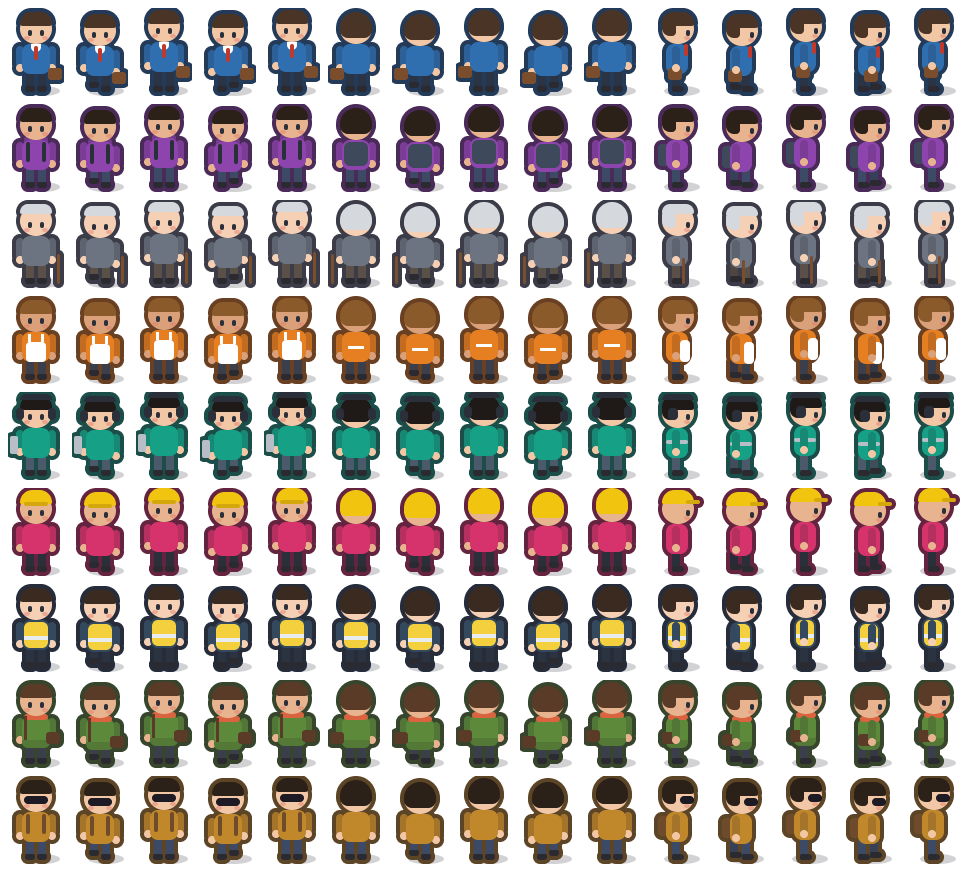
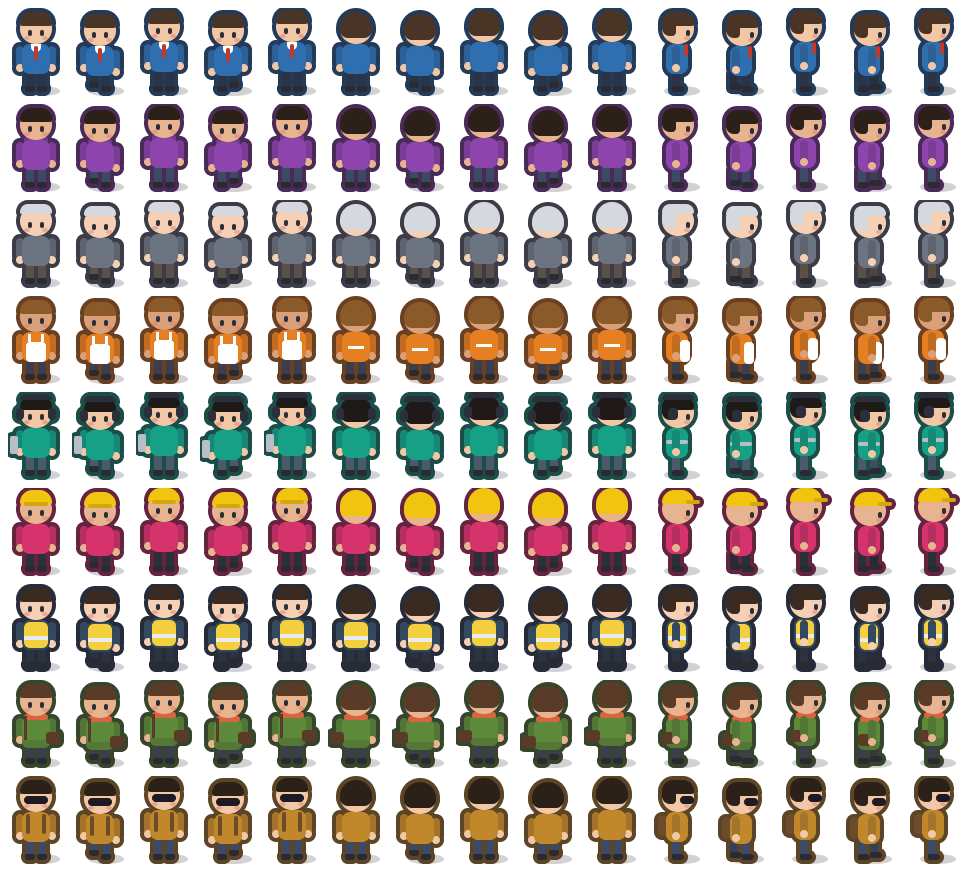
Аксессуары жителей: портфель, рюкзак, трость, стаканчик кофе после покупки, пакет из «Продуктов»
- Аксессуары нарисованы отдельно и накладываются поверх жителя, покачиваются в такт шагу
- Из базовых кадров убраны встроенные портфели, рюкзаки студентов и трости — без дублей
- Стаканчик — 30 игровых минут после покупки кофе у игрока, пакет — 40 минут после «Продуктов»
- Атласы people и extra пересобраны

Claude-Session: https://claude.ai/code/session_01DHEiVcyPj9Qv6m6TjqeSZK

diff --git a/src/game/StreetScene.ts b/src/game/StreetScene.ts
@@ -6,7 +6,7 @@ import { WANT_LABEL } from '../sim/demand';
 import { formatMoney } from '../sim/economy';
 import { PARK_TOP, place, PLACES, ROAD, WORLD, GRID, type Place } from '../sim/world';
 import { COLORS, RESIDENT_COLOR } from './palette';
-import { ART_SCALE, ATLASES, personFrame, RESIDENT_SIZE, textureOf, type Facing } from './atlas';
+import { ART_SCALE, ATLASES, personFrame, RESIDENT_SIZE, textureOf, type Accessory, type Facing } from './atlas';
 import { Traffic } from './traffic';
 import { sound } from './sound';
 import type { RejectReason } from '../sim/cafe';
@@ -118,6 +118,12 @@ const CAFE_DOOR_GLASS = { x: 192, y: 148, w: 24, h: 18 };
 
 interface Walker {
   sprite: Phaser.GameObjects.Image;
+  /** Аксессуар поверх жителя: портфель, рюкзак, трость, стаканчик, пакет */
+  acc: Phaser.GameObjects.Image;
+  /** До какой минуты игры в руке стаканчик (купил у тебя) и пакет (вышел из «Продуктов») */
+  coffeeUntil: number;
+  bagUntil: number;
+  inShop: boolean;
   facing: Facing;
   flip: boolean;
   lastX: number;
@@ -228,6 +234,14 @@ export class StreetScene extends Phaser.Scene {
         .image(r.pos.x, r.pos.y, 'people', personFrame(r.kind, 'down', 0))
         .setOrigin(0.5, RESIDENT_SIZE.feet / RESIDENT_SIZE.h)
         .setScale(1 / ART_SCALE),
+      acc: this.add
+        .image(r.pos.x, r.pos.y, textureOf('acc-cane-down'), 'acc-cane-down')
+        .setOrigin(0.5, RESIDENT_SIZE.feet / RESIDENT_SIZE.h)
+        .setScale(1 / ART_SCALE)
+        .setVisible(false),
+      coffeeUntil: -1,
+      bagUntil: -1,
+      inShop: false,
       facing: 'down' as Facing,
       flip: false,
       lastX: r.pos.x,
@@ -489,6 +503,8 @@ export class StreetScene extends Phaser.Scene {
     for (const e of sim.drainEvents()) {
       if (e.type === 'sale') {
         sound.sale();
+        // Купил кофе — выходит со стаканчиком (в зале допивает на месте, но стакан с собой тоже бывает)
+        if (sim.cafe.menu.find((m) => m.id === e.itemId)?.kind === 'coffee') this.walkers[e.residentId].coffeeUntil = sim.time + COFFEE_MINUTES;
         if (sim.cafe.menu.find((m) => m.id === e.itemId)?.kind === 'coffee' && Math.random() < 0.3) sound.play('sfx-coffee', 0.6);
         const c = place(sim.shopId).rect;
         this.float(c.x + c.w / 2, c.y + Math.min(c.h - 70, 30), `+${formatMoney(e.price)}`, '#2e8b57', 24);
@@ -713,7 +729,9 @@ export class StreetScene extends Phaser.Scene {
       const w = this.walkers[i];
       const s = w.sprite;
       s.setVisible(r.visible);
+      if (!r.visible) w.acc.setVisible(false);
       if (!r.visible) {
+        if (r.placeId === 'shop') w.inShop = true;
         w.lastX = r.pos.x;
         w.lastY = r.pos.y;
         return;
@@ -737,6 +755,24 @@ export class StreetScene extends Phaser.Scene {
         .setFlipX(w.flip)
         .setPosition(r.pos.x, r.pos.y)
         .setDepth(r.pos.y);
+      // Аксессуар: что в руках сейчас, иначе — то, что носит этот тип жителя
+      if (r.placeId === 'shop' && !r.walking) w.inShop = true;
+      else if (w.inShop && r.walking) {
+        w.inShop = false;
+        w.bagUntil = sim.time + BAG_MINUTES;
+      }
+      const acc: Accessory | undefined =
+        sim.time < w.coffeeUntil ? 'coffee' : sim.time < w.bagUntil ? 'shopping-bag' : KIND_ACCESSORY[r.kind];
+      if (acc) {
+        // Покачивается в такт шагу: на шагах 1 и 3 чуть выше
+        const bob = phase % 2 === 1 ? -0.7 : 0;
+        w.acc
+          .setFrame(`acc-${acc}-${w.facing}`)
+          .setFlipX(w.flip)
+          .setPosition(r.pos.x, r.pos.y + bob)
+          .setDepth(r.pos.y + 0.01)
+          .setVisible(true);
+      } else w.acc.setVisible(false);
     });
 
     // Знакомые лица: звёздочка над головой — золотая у постоянных
@@ -830,6 +866,11 @@ export class StreetScene extends Phaser.Scene {
       .setDepth(y);
   }
 }
+
+/** Кто что носит всегда; стаканчик и пакет — на время */
+const KIND_ACCESSORY: Partial<Record<Resident['kind'], Accessory>> = { office: 'briefcase', student: 'backpack', pensioner: 'cane' };
+const COFFEE_MINUTES = 30;
+const BAG_MINUTES = 40;
 
 /** Ряд клеток с пешеходным переходом */
 const CROSSWALK_Y = 520;

diff --git a/src/game/atlas.ts b/src/game/atlas.ts
@@ -27,11 +27,16 @@ const FACINGS: Facing[] = ['down', 'up', 'right'];
 
 type Frames = Record<string, [x: number, y: number, w: number, h: number]>;
 
+/** Аксессуары жителей: кадр 28×44 как у жителя, накладывается поверх. Ряд внизу атласа extra */
+export const ACCESSORIES = ['briefcase', 'backpack', 'cane', 'coffee', 'shopping-bag'] as const;
+export type Accessory = (typeof ACCESSORIES)[number];
+
 export const ATLASES: Record<string, { url: string; frames: Frames }> = {
-  // Второй набор (октябрь): конкуренты, новые дома, транспорт, свет, улучшения и события
+  // Второй набор (октябрь): конкуренты, новые дома, транспорт, свет, улучшения, события и аксессуары жителей
   extra: {
     url: extraUrl,
     frames: {
+      ...accessoryFrames(),
       'building-cafe-rival': [4, 4, 240, 200],
       'building-cafe-rival-lights': [248, 4, 240, 200],
       'building-home-c-left': [736, 4, 240, 180],
@@ -120,6 +125,14 @@ export const RESIDENT_SIZE = { w: 28, h: 44, feet: 42 } as const;
 
 export function personFrame(kind: ResidentKind, facing: Facing, phase: number): string {
   return `${kind}-${facing}-${phase}`;
+}
+
+
+function accessoryFrames(): Frames {
+  const frames: Frames = {};
+  let i = 0;
+  for (const a of ACCESSORIES) for (const f of FACINGS) frames[`acc-${a}-${f}`] = [4 + i++ * 32, 824, 28, 44];
+  return frames;
 }
 
 /** Лист жителей: ряд — тип, в ряду 15 кадров (вниз, вверх, вправо × стоит + 4 шага), ячейка 32×48 */

diff --git a/scripts/README.md b/scripts/README.md
@@ -20,3 +20,10 @@
 снимок делается в масштабе 1 — на белом и на чёрном фоне, дальше `matte.py` → `src/game/art/extra.png`.
 Кадры — в `ATLASES.extra` в `src/game/atlas.ts` (координаты 1×). Картинки карточек `card-kiosk`/`card-cafe`
 вырезаются из атласа в `src/game/art/cards/*.webp`. В какой текстуре лежит кадр, код узнаёт сам (`textureOf`).
+
+## Жители и аксессуары
+
+Атлас жителей снимается с рамки `atlas-people@2x` на странице «Экспорт для игры» (копия `atlas-people`, увеличенная вдвое).
+Аксессуары (`acc-…` на странице «Жители») лежат нижним рядом в `atlas-extra` и накладываются поверх жителя кодом.
+Встроенные портфели, рюкзаки студентов и трости в кадрах жителей скрыты (слои `briefcase`, `backpack`, `strap`, `cane`
+выключены, не удалены), чтобы не было двух портфелей.
